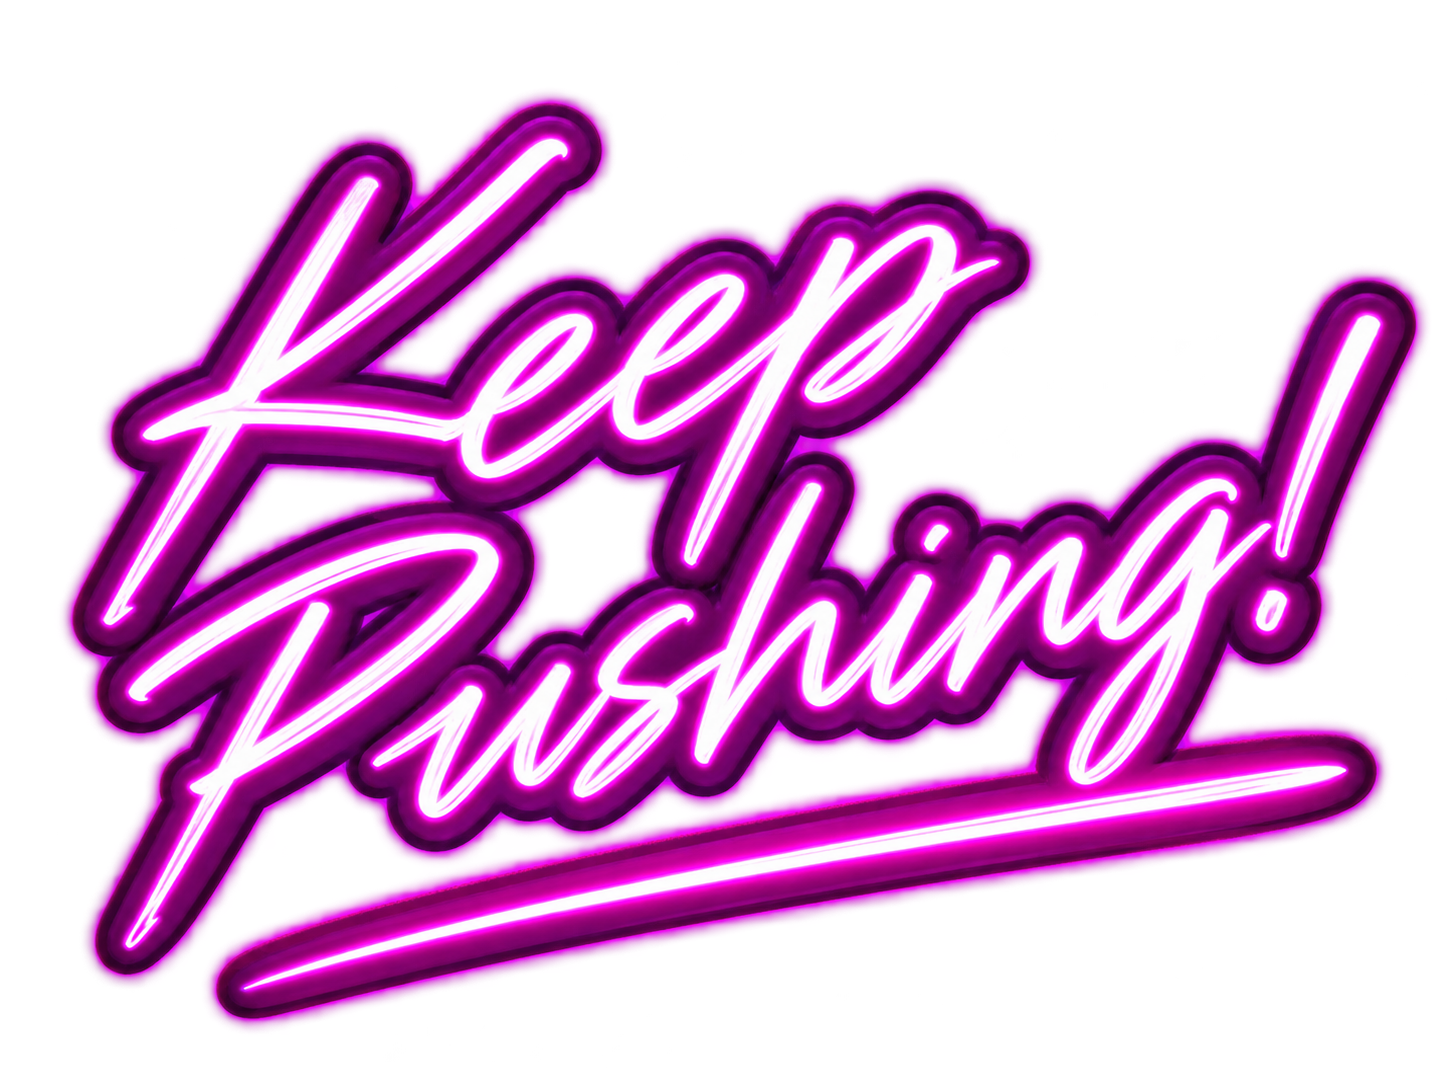
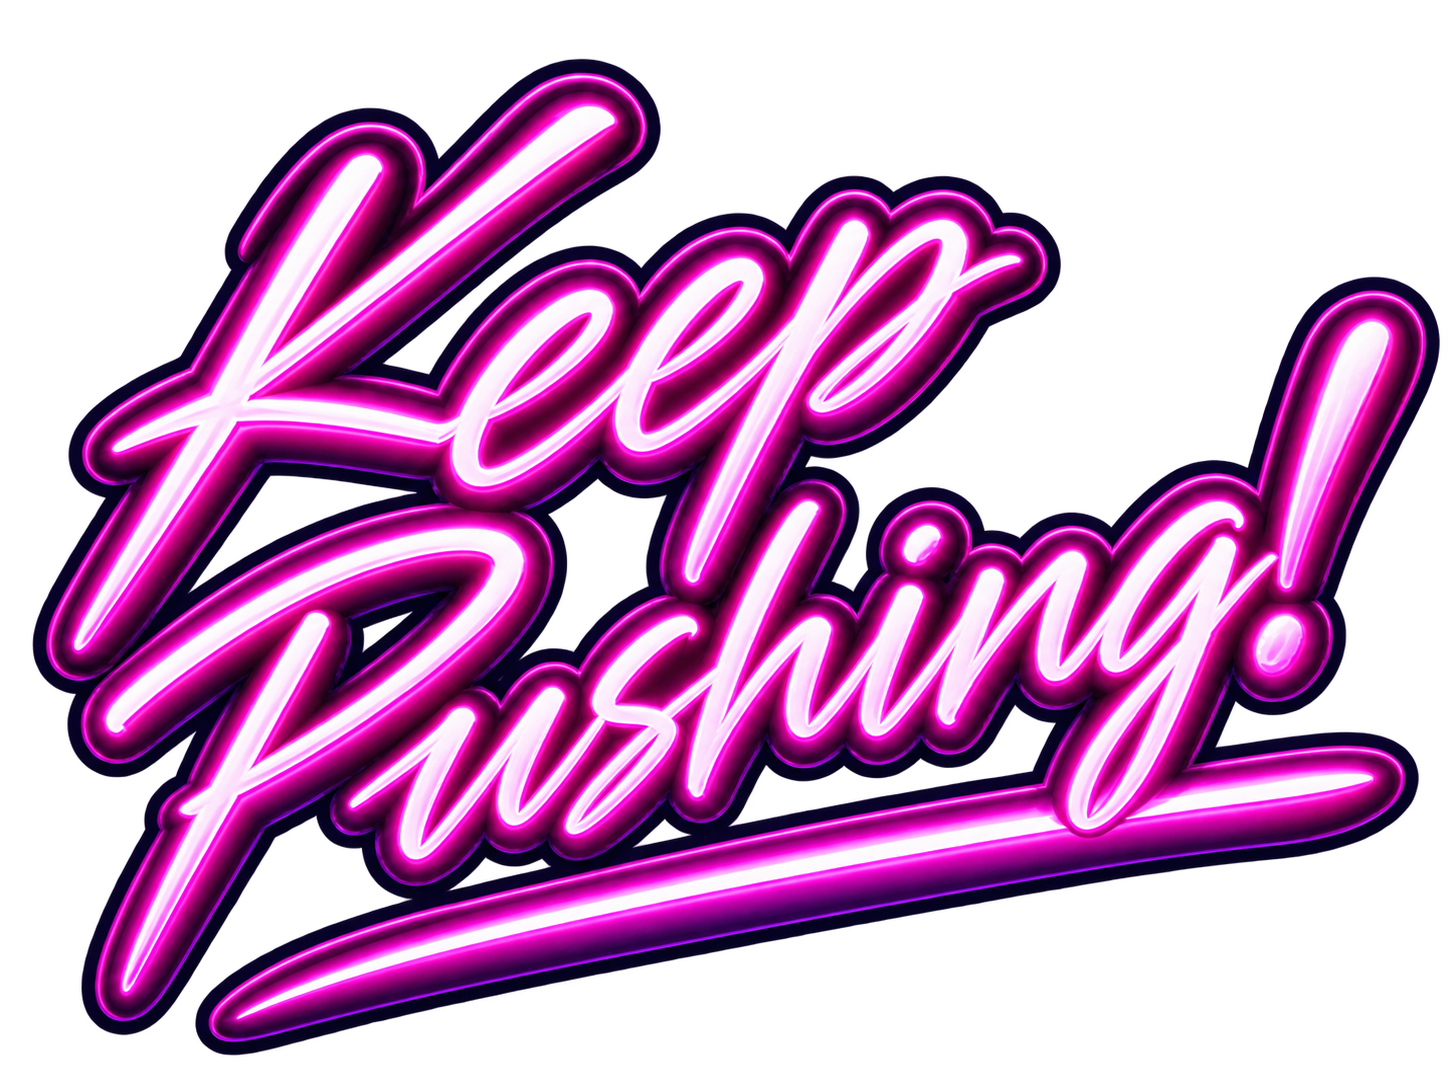
Fix sidebar transition layout safety and legacy leaderboard presence

diff --git a/lib/core/widgets/elix_sidebar_chrome.dart b/lib/core/widgets/elix_sidebar_chrome.dart
@@ -137,19 +137,30 @@ class ElixSidebarPane extends StatelessWidget {
 
   @override
   Widget build(BuildContext context) {
+    final contentWidth = isCollapsed
+        ? ElixSidebarMetrics.collapsedWidth
+        : ElixSidebarMetrics.expandedWidth;
+
     return AnimatedContainer(
       duration: ElixSidebarMetrics.paneDuration(context),
       curve: ElixMotion.standardCurve,
-      width: isCollapsed
-          ? ElixSidebarMetrics.collapsedWidth
-          : ElixSidebarMetrics.expandedWidth,
+      width: contentWidth,
       decoration: elixSidebarSurfaceDecoration(context),
       clipBehavior: Clip.antiAlias,
       child: Stack(
         fit: StackFit.expand,
         children: [
           const ElixSidebarAmbientGlow(),
-          child,
+          // The surface width animates, but target-state content must never
+          // receive that intermediate width. In particular, the expanded
+          // header, nav labels, badges, and identity card need 272px while
+          // the pane is opening; the pane clips their still-hidden portion.
+          OverflowBox(
+            alignment: Alignment.topLeft,
+            minWidth: contentWidth,
+            maxWidth: contentWidth,
+            child: child,
+          ),
           const ElixSidebarFacingHighlight(),
         ],
       ),
@@ -249,8 +260,11 @@ class ElixSidebarFacingHighlight extends StatelessWidget {
   }
 }
 
-/// Fade plus a short horizontal travel for collapse/expand labels.
-class ElixSidebarReveal extends StatelessWidget {
+/// Fade plus a short horizontal travel for expanding labels.
+///
+/// Collapsing removes the child immediately so hidden labels, badges, and
+/// their fixed spacing never participate in compact-row layout.
+class ElixSidebarReveal extends StatefulWidget {
   const ElixSidebarReveal({
     super.key,
     required this.visible,
@@ -261,25 +275,48 @@ class ElixSidebarReveal extends StatelessWidget {
   final Widget child;
 
   @override
+  State<ElixSidebarReveal> createState() => _ElixSidebarRevealState();
+}
+
+class _ElixSidebarRevealState extends State<ElixSidebarReveal> {
+  late bool _revealed = widget.visible;
+
+  @override
+  void didUpdateWidget(covariant ElixSidebarReveal oldWidget) {
+    super.didUpdateWidget(oldWidget);
+    if (!widget.visible) {
+      _revealed = false;
+      return;
+    }
+    if (!oldWidget.visible) {
+      _revealed = false;
+      WidgetsBinding.instance.addPostFrameCallback((_) {
+        if (mounted && widget.visible) {
+          setState(() => _revealed = true);
+        }
+      });
+    }
+  }
+
+  @override
   Widget build(BuildContext context) {
     final reduced = ElixSidebarMetrics.reducedMotion(context);
-    return IgnorePointer(
-      ignoring: !visible,
-      child: ExcludeSemantics(
-        excluding: !visible,
-        child: AnimatedOpacity(
-          opacity: visible ? 1 : 0,
-          duration: ElixSidebarMetrics.paneDuration(context),
-          curve: ElixMotion.standardCurve,
-          child: AnimatedSlide(
-            offset: visible || reduced
-                ? Offset.zero
-                : const Offset(-ElixSidebarMetrics.navLabelSlide, 0),
-            duration: ElixSidebarMetrics.paneDuration(context),
-            curve: ElixMotion.standardCurve,
-            child: child,
-          ),
-        ),
+    if (!widget.visible) {
+      // An invisible label must not continue to reserve its fixed gap, badge,
+      // or text row during the compact layout.
+      return const SizedBox.shrink();
+    }
+    return AnimatedOpacity(
+      opacity: _revealed || reduced ? 1 : 0,
+      duration: ElixSidebarMetrics.paneDuration(context),
+      curve: ElixMotion.standardCurve,
+      child: AnimatedSlide(
+        offset: _revealed || reduced
+            ? Offset.zero
+            : const Offset(-ElixSidebarMetrics.navLabelSlide, 0),
+        duration: ElixSidebarMetrics.paneDuration(context),
+        curve: ElixMotion.standardCurve,
+        child: widget.child,
       ),
     );
   }
@@ -545,53 +582,47 @@ class ElixSidebarHeader extends StatelessWidget {
 
   @override
   Widget build(BuildContext context) {
-    final motion = ElixSidebarMetrics.paneDuration(context);
-    return AnimatedSwitcher(
-      duration: motion,
-      switchInCurve: ElixMotion.standardCurve,
-      switchOutCurve: ElixMotion.standardCurve,
-      child: showCollapsedLayout
-          ? Padding(
-              key: const ValueKey('sidebar-header-collapsed'),
-              padding: const EdgeInsets.only(
-                top: AppSpacing.md + 6,
-                bottom: AppSpacing.sm,
-              ),
-              child: Column(
-                children: [
-                  const Center(child: ElixBrandMark(size: 56)),
-                  const SizedBox(height: AppSpacing.sm),
-                  Center(
-                    child: ElixSidebarCollapseButton(
-                      isCollapsed: isCollapsed,
-                      onTap: onToggleCollapse,
-                    ),
-                  ),
-                ],
-              ),
-            )
-          : Padding(
-              key: const ValueKey('sidebar-header-expanded'),
-              padding: const EdgeInsets.fromLTRB(
-                AppSpacing.md,
-                AppSpacing.md + 6,
-                AppSpacing.sm,
-                AppSpacing.sm,
-              ),
-              child: Row(
-                children: [
-                  const ElixBrandMark(size: 56),
-                  const SizedBox(width: 8),
-                  Expanded(child: ElixBrandWordmark(subtitle: subtitle)),
-                  const SizedBox(width: AppSpacing.xs),
-                  ElixSidebarCollapseButton(
+    return showCollapsedLayout
+        ? Padding(
+            key: const ValueKey('sidebar-header-collapsed'),
+            padding: const EdgeInsets.only(
+              top: AppSpacing.md + 6,
+              bottom: AppSpacing.sm,
+            ),
+            child: Column(
+              children: [
+                const Center(child: ElixBrandMark(size: 56)),
+                const SizedBox(height: AppSpacing.sm),
+                Center(
+                  child: ElixSidebarCollapseButton(
                     isCollapsed: isCollapsed,
                     onTap: onToggleCollapse,
                   ),
-                ],
-              ),
+                ),
+              ],
             ),
-    );
+          )
+        : Padding(
+            key: const ValueKey('sidebar-header-expanded'),
+            padding: const EdgeInsets.fromLTRB(
+              AppSpacing.md,
+              AppSpacing.md + 6,
+              AppSpacing.sm,
+              AppSpacing.sm,
+            ),
+            child: Row(
+              children: [
+                const ElixBrandMark(size: 56),
+                const SizedBox(width: 8),
+                Expanded(child: ElixBrandWordmark(subtitle: subtitle)),
+                const SizedBox(width: AppSpacing.xs),
+                ElixSidebarCollapseButton(
+                  isCollapsed: isCollapsed,
+                  onTap: onToggleCollapse,
+                ),
+              ],
+            ),
+          );
   }
 }
 

diff --git a/test/core/widgets/elix_sidebar_test.dart b/test/core/widgets/elix_sidebar_test.dart
@@ -153,6 +153,59 @@ void main() {
     expect(sessions.isCollapsed, isTrue);
   });
 
+  testWidgets('trainee sidebar stays layout-safe through pane transitions', (
+    tester,
+  ) async {
+    await tester.binding.setSurfaceSize(const Size(1280, 760));
+    addTearDown(() => tester.binding.setSurfaceSize(null));
+
+    final auth = AuthService(
+      repository: _UnusedAuthRepository(),
+      awaitInitialAuthState: () async {},
+    );
+    addTearDown(auth.dispose);
+    var isCollapsed = false;
+
+    await tester.pumpWidget(
+      ChangeNotifierProvider<AuthService>.value(
+        value: auth,
+        child: FluentApp(
+          theme: AppTheme.dark,
+          home: StatefulBuilder(
+            builder: (context, setState) => Row(
+              crossAxisAlignment: CrossAxisAlignment.stretch,
+              children: [
+                ElixSidebar(
+                  currentRoute: '/dashboard',
+                  isCollapsed: isCollapsed,
+                  onToggleCollapse: () =>
+                      setState(() => isCollapsed = !isCollapsed),
+                  onLogout: _noop,
+                ),
+                const Expanded(child: ColoredBox(color: Color(0xFF050308))),
+              ],
+            ),
+          ),
+        ),
+      ),
+    );
+    await tester.pump();
+
+    await tester.tap(find.byType(ElixSidebarCollapseButton));
+    await tester.pump();
+    await tester.pump(ElixSidebarMetrics.paneMotion ~/ 2);
+    expect(tester.takeException(), isNull);
+    await tester.pump(ElixSidebarMetrics.paneMotion);
+    expect(tester.takeException(), isNull);
+
+    await tester.tap(find.byType(ElixSidebarCollapseButton));
+    await tester.pump();
+    await tester.pump(ElixSidebarMetrics.paneMotion ~/ 2);
+    expect(tester.takeException(), isNull);
+    await tester.pump(ElixSidebarMetrics.paneMotion);
+    expect(tester.takeException(), isNull);
+  });
+
   testWidgets('trainee sidebar docks flush in the application shell', (
     tester,
   ) async {

diff --git a/test/core/shell/teacher_sidebar_test.dart b/test/core/shell/teacher_sidebar_test.dart
@@ -437,6 +437,56 @@ void main() {
     expect(dashboard.isActive, isTrue);
     expect(dashboard.isCollapsed, isTrue);
   });
+
+  testWidgets('teacher sidebar stays layout-safe through pane transitions', (
+    tester,
+  ) async {
+    await tester.binding.setSurfaceSize(const Size(1280, 900));
+    addTearDown(() => tester.binding.setSurfaceSize(null));
+
+    final auth = phase3TeacherAuth();
+    addTearDown(auth.dispose);
+    var isCollapsed = false;
+
+    await tester.pumpWidget(
+      ChangeNotifierProvider<AuthService>.value(
+        value: auth,
+        child: FluentApp(
+          theme: AppTheme.dark,
+          home: StatefulBuilder(
+            builder: (context, setState) => Row(
+              crossAxisAlignment: CrossAxisAlignment.stretch,
+              children: [
+                TeacherSidebar(
+                  currentRoute: AppRoutePaths.teacherDashboard,
+                  isCollapsed: isCollapsed,
+                  onToggleCollapse: () =>
+                      setState(() => isCollapsed = !isCollapsed),
+                  onLogout: _noop,
+                ),
+                const Expanded(child: ColoredBox(color: Color(0xFF050308))),
+              ],
+            ),
+          ),
+        ),
+      ),
+    );
+    await tester.pump();
+
+    await tester.tap(find.byType(ElixSidebarCollapseButton));
+    await tester.pump();
+    await tester.pump(ElixSidebarMetrics.paneMotion ~/ 2);
+    expect(tester.takeException(), isNull);
+    await tester.pump(ElixSidebarMetrics.paneMotion);
+    expect(tester.takeException(), isNull);
+
+    await tester.tap(find.byType(ElixSidebarCollapseButton));
+    await tester.pump();
+    await tester.pump(ElixSidebarMetrics.paneMotion ~/ 2);
+    expect(tester.takeException(), isNull);
+    await tester.pump(ElixSidebarMetrics.paneMotion);
+    expect(tester.takeException(), isNull);
+  });
 }
 
 void _noop() {}
